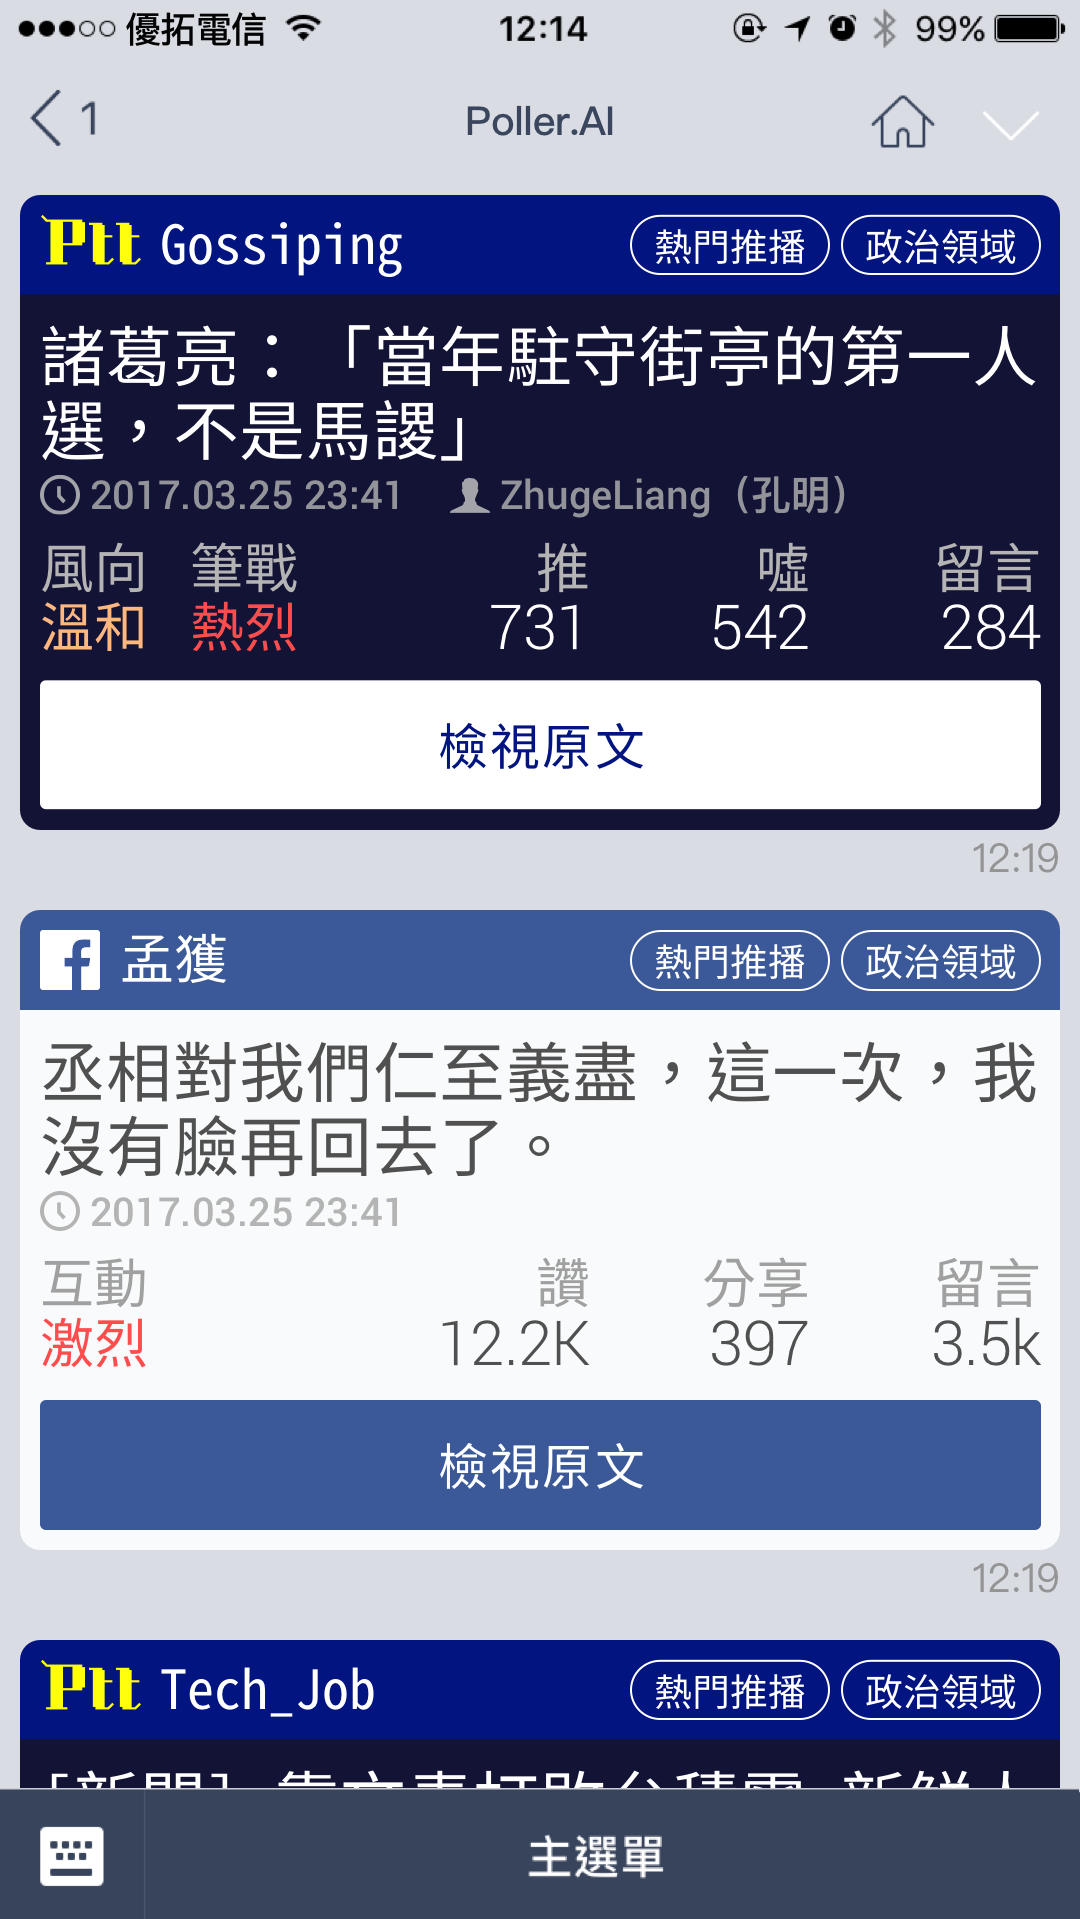
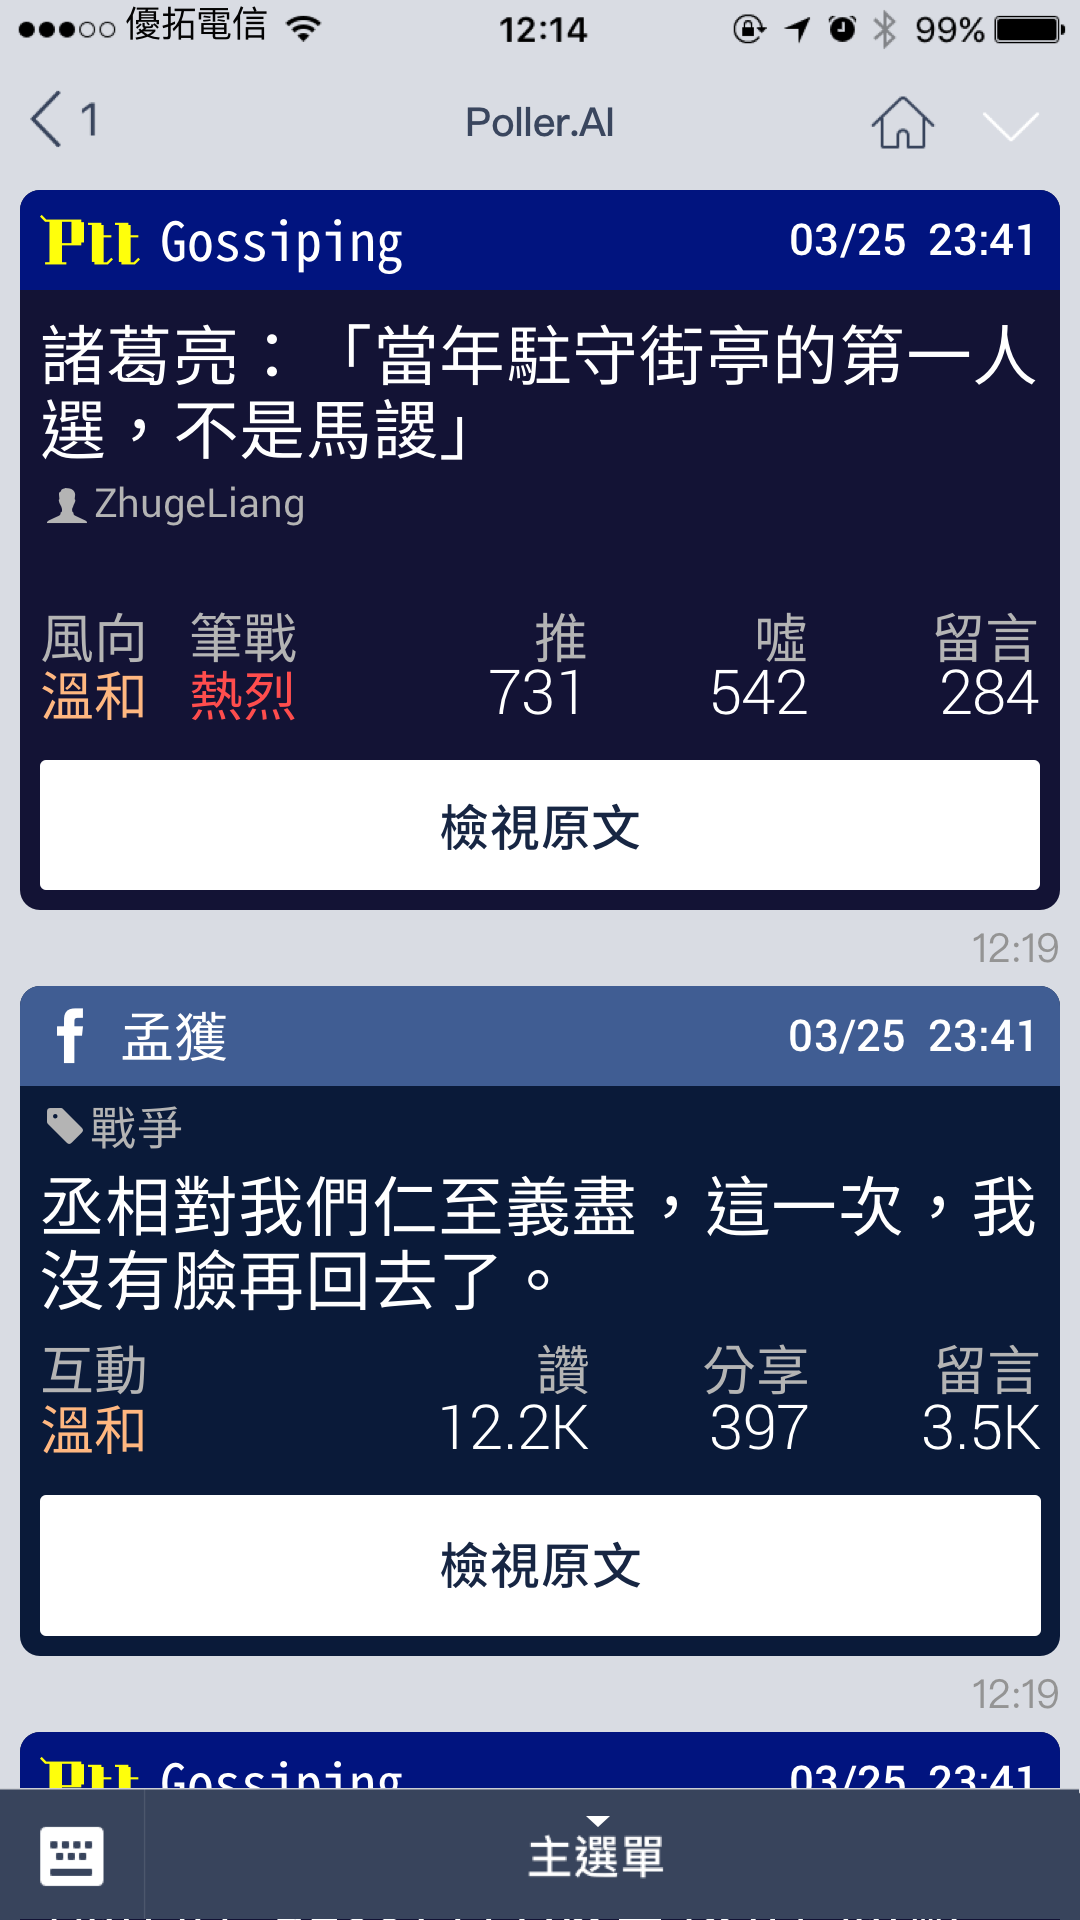
follow PollerChinese_0801

diff --git a/index.html b/index.html
@@ -168,7 +168,7 @@
 
             <h1 class="font-bold product-tagline color-primary " style="">Poller.AI ─ 社群監測小秘書</h1>
 
-            <div class="subtitle color-secondary" style="">Poller 是個社群監測小秘書。以即時警報，取代事後諸葛，透過 AI 人工智慧技術，讓您跟上瞬息萬變的社群動態。
+            <div class="subtitle color-secondary" style="">Poller 是個社群監測小秘書。透過 AI 人工智慧技術，預測熱門話題。以即時推播，取代事後諸葛，透過 AI 人工智慧技術，讓您跟上瞬息萬變的社群動態。
 
             </div>
 
@@ -339,7 +339,6 @@
             <h1 class="color-primary font-bold">目標設定</h1>
             <h2 class="color-secondary font-size24" style="line-height: 1.6">    
               &#9656; 選擇 PTT 看板、Facebook 專頁分類<br/>
-              &#9656; 設定推播條件<br/>
             </h2>
 
           </div>
@@ -353,7 +352,7 @@
               <div class="screen">
                 <!-- Demo image for screen mockup, you can put an image here, some HTML, an animation, video, or anything else! -->
 
-                <img src="img2/Web_Sim03.png" class="img-responsive" alt="">
+                <img src="img2/Web_Sim03.gif" class="img-responsive" alt="">
               </div>
             </div>
           </div>
